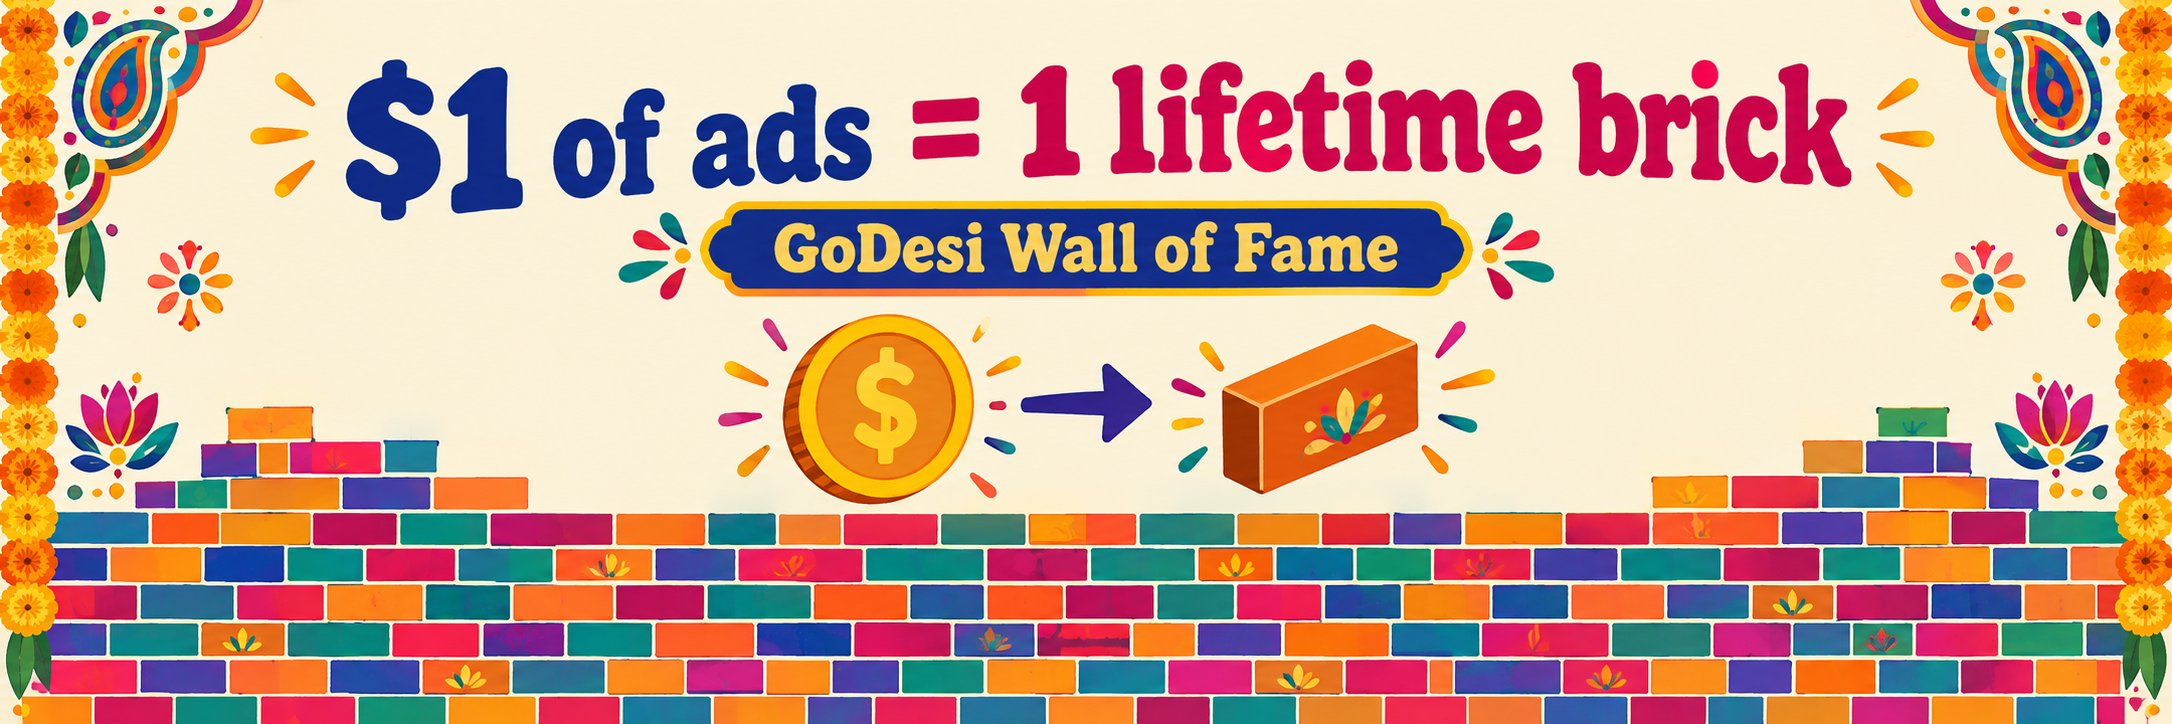
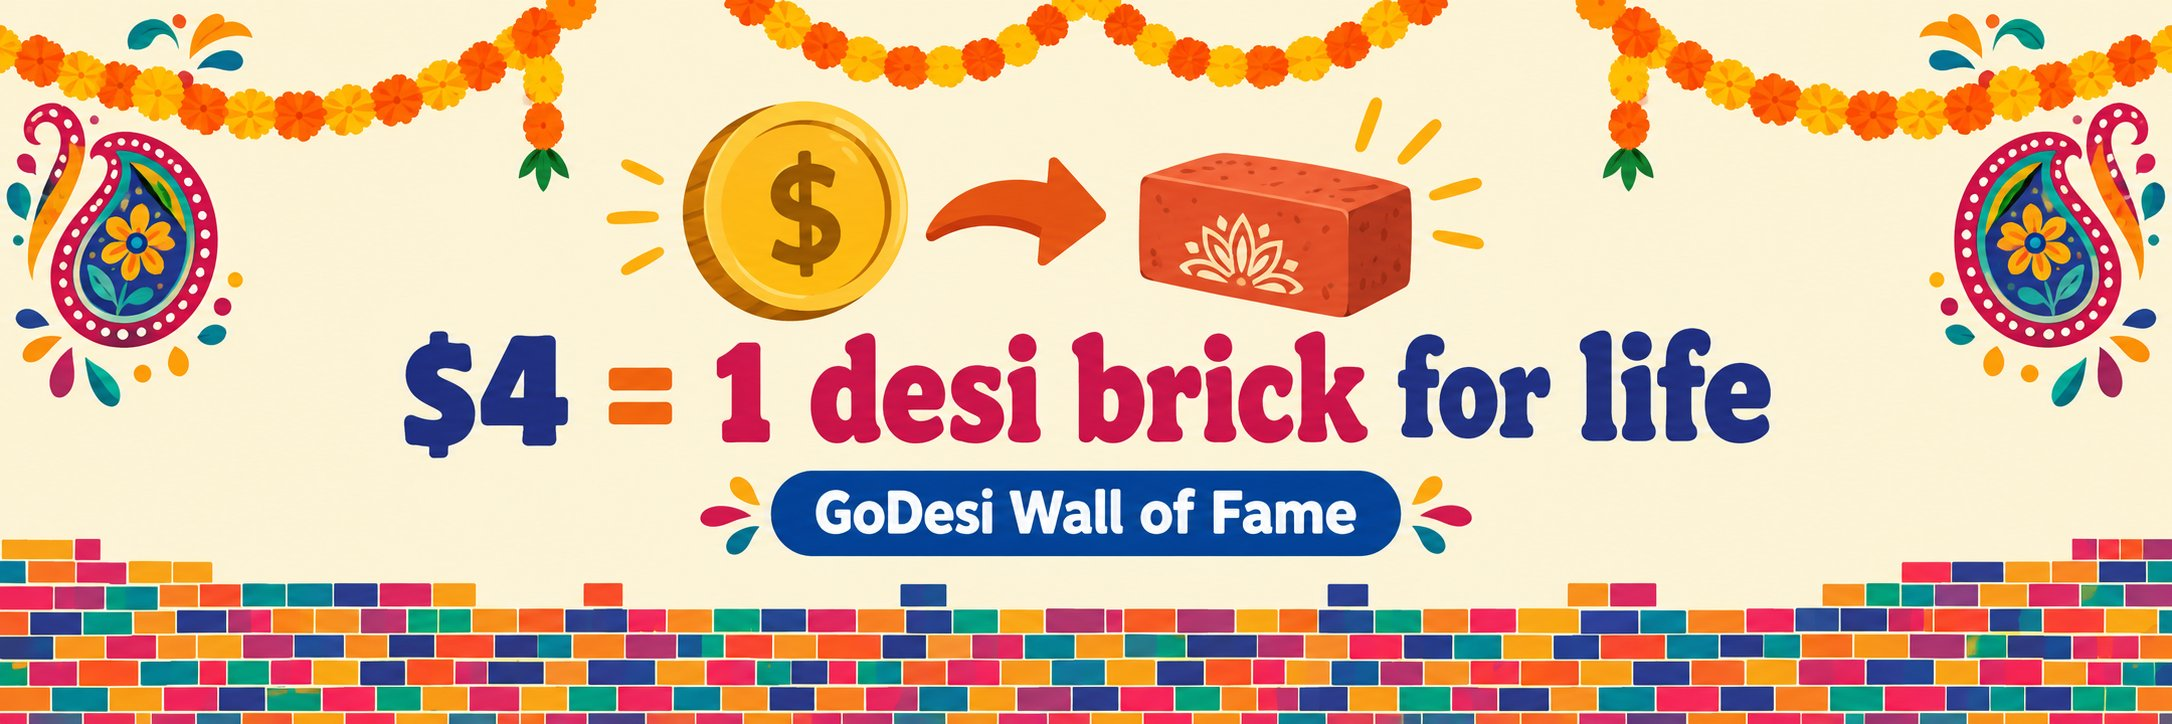
Copy: $4 = one desi brick for life

diff --git a/src/app/upgrade/page.tsx b/src/app/upgrade/page.tsx
@@ -162,10 +162,11 @@ export default async function UpgradePage({
           </p>
         ) : (
           <p className="mt-1 text-sm text-amber-900">
-            Every dollar you spend on GoDesi ads earns the same in wall bricks
-            — $1 = 1 pixel. Book a block once and it stays on the wall for
-            life; pick only your earned bricks or stretch to as much as you
-            want to pay.
+            Every dollar you spend on GoDesi ads earns the same in wall
+            bricks — <span className="font-black">$4 gets you one desi brick
+            for life</span>. Book a block once and it stays on the wall
+            forever; pick only your earned bricks or stretch to as much as
+            you want to pay.
           </p>
         )}
         <Link

diff --git a/src/components/houseBanners.ts b/src/components/houseBanners.ts
@@ -15,7 +15,7 @@ export const HOUSE_BANNERS: HouseBanner[] = [
     href: "/walloffame",
     emoji: "🧱",
     title: "The GoDesi Wall",
-    line: "Every $1 of ads earns a lifetime brick",
+    line: "$4 = one desi brick, yours for life",
     colors: "from-amber-500 to-rose-600",
   },
   {
